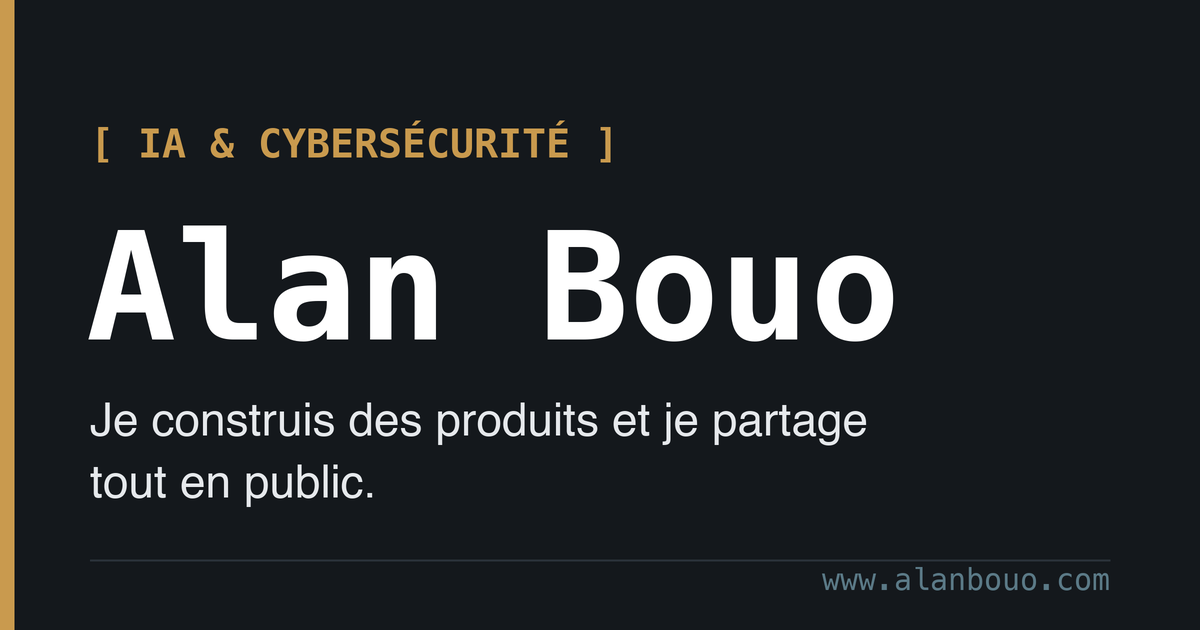
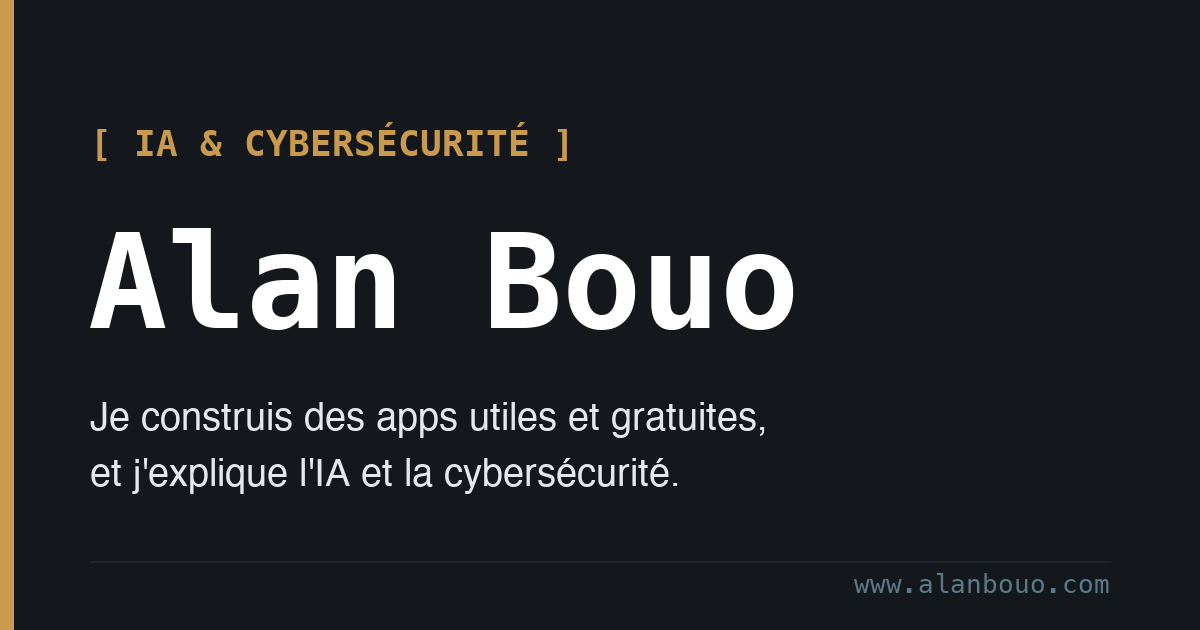
Remplace « expert » par ce que je fais et retire le reste d'A/B « audit »

diff --git a/app/layout.tsx b/app/layout.tsx
@@ -6,17 +6,17 @@ import { SITE_URL, SITE_NAME, DEFAULT_OG_IMAGE } from '@/lib/site'
 
 export const metadata: Metadata = {
   metadataBase: new URL(SITE_URL),
-  title: 'Alan Bouo — Expert IA & cybersécurité qui construit en public',
-  description: "Je construis des produits, j'apprends en avançant et je partage tout en public. Passionné d'IA et de cybersécurité, j'aime rendre ces sujets accessibles, sans jargon.",
-  keywords: ['IA', 'intelligence artificielle', 'cybersécurité', 'build in public', 'vulgarisation', 'indie hacking', 'SaaS', 'Alan Bouo'],
+  title: "Alan Bouo — Je construis des apps et j'explique l'IA et la cybersécurité",
+  description: "Je construis des apps utiles et gratuites, et j'explique l'IA et la cybersécurité en chemin, simplement et sans jargon.",
+  keywords: ['IA', 'intelligence artificielle', 'cybersécurité', 'vulgarisation', 'apps gratuites', 'Alan Bouo'],
   authors: [{ name: 'Alan Bouo' }],
   openGraph: {
-    title: 'Alan Bouo — Expert IA & cybersécurité qui construit en public',
-    description: "Je construis des produits et j'apprends en public. IA & cybersécurité rendues accessibles, sans jargon.",
+    title: "Alan Bouo — Je construis des apps et j'explique l'IA et la cybersécurité",
+    description: "Je construis des apps utiles et gratuites, et j'explique l'IA et la cybersécurité en chemin.",
     siteName: SITE_NAME,
     locale: 'fr_FR',
     type: 'website',
-    images: [{ url: DEFAULT_OG_IMAGE, width: 1200, height: 630, alt: 'Alan Bouo : IA & cybersécurité, construit en public' }],
+    images: [{ url: DEFAULT_OG_IMAGE, width: 1200, height: 630, alt: "Alan Bouo : des apps utiles, l'IA et la cybersécurité expliquées" }],
   },
   twitter: {
     card: 'summary_large_image',
@@ -29,9 +29,6 @@ export default function RootLayout({
 }: {
   children: React.ReactNode
 }) {
-  // A/B Testing variant for CTA buttons
-  const ctaVariant = Math.random() < 0.5 ? 'demo' : 'audit';
-
   return (
     <html lang="fr">
       <head>
@@ -39,14 +36,10 @@ export default function RootLayout({
         <script
           dangerouslySetInnerHTML={{
             __html: `
-              // Globaux pour analytics
-              window.ctaVariant = "${ctaVariant}";
-
               // Matomo Analytics Initialization
               var _paq = window._paq = window._paq || [];
               _paq.push(['trackPageView']);
               _paq.push(['enableLinkTracking']);
-              _paq.push(['setCustomVariable', 3, "CTA_Variant", "${ctaVariant}", "visit"]);
               _paq.push(['setCustomVariable', 1, "Traffic_Source", document.referrer.includes('ilan.com') ? 'Organic' : 'Direct', "visit"]);
 
               // Matomo setup (replace with your actual instance)
@@ -62,7 +55,7 @@ export default function RootLayout({
         />
       </head>
       <body>
-        <SiteFrame ctaVariant={ctaVariant}>
+        <SiteFrame>
           {children}
         </SiteFrame>
       </body>

diff --git a/app/about/page.tsx b/app/about/page.tsx
@@ -4,8 +4,8 @@ import { pageMetadata } from '@/lib/site'
 
 export const metadata = pageMetadata({
   path: '/about',
-  title: 'À propos d\'Alan Bouo — Expert IA & cybersécurité',
-  description: "Alan Bouo, passionné d'IA & de cybersécurité. Je construis des produits et j'explique ce que j'apprends, en rendant ces sujets accessibles. Créateur de CookSmart, TubeChatAI, MemoMind et d'autres projets en cours. Basé à Lyon, France."
+  title: "À propos d'Alan Bouo",
+  description: "Alan Bouo construit des apps utiles et gratuites, et explique l'IA et la cybersécurité en chemin, simplement. Créateur de CookSmart, TubeChatAI, MemoMind et d'autres projets en cours. Basé à Lyon, France."
 })
 
 export default function AboutPage() {
@@ -27,8 +27,8 @@ export default function AboutPage() {
             <h1 style={{ fontSize: 'clamp(2.5rem, 8vw, 4rem)', marginBottom: '1rem', lineHeight: '1.2', fontWeight: 'bold' }}>
               ALAN BOUO
             </h1>
-            <h2 style={{ fontSize: 'clamp(1.3rem, 4vw, 2rem)', marginBottom: '2rem', color: 'inherit', opacity: 0.9, textTransform: 'uppercase', letterSpacing: '3px', fontWeight: '600' }}>
-              Expert IA &amp; Cybersécurité
+            <h2 style={{ fontSize: 'clamp(1.3rem, 4vw, 2rem)', marginBottom: '2rem', color: 'inherit', opacity: 0.9, fontWeight: '600' }}>
+              Je construis des apps utiles et gratuites, et j'explique l'IA et la cybersécurité
             </h2>
             <p style={{ fontSize: '20px', lineHeight: '1.6', marginBottom: '1.5rem', fontWeight: '500' }}>
               J'aime comprendre comment les choses marchent, et fabriquer des choses utiles à
@@ -127,7 +127,7 @@ export default function AboutPage() {
             }} className="profile-image-hover">
               <Image
                 src="/img/alan.png"
-                alt="Alan BOUO — Expert IA & cybersécurité"
+                alt="Portrait d'Alan Bouo"
                 width={320}
                 height={320}
                 style={{ objectFit: 'cover', width: '100%', height: '100%' }}

diff --git a/app/page.tsx b/app/page.tsx
@@ -5,8 +5,8 @@ import { pageMetadata, SITE_URL, SOCIAL_PROFILES } from '@/lib/site'
 
 export const metadata = pageMetadata({
   path: '/',
-  title: 'Alan Bouo — Expert IA & cybersécurité qui construit en public',
-  description: "Je construis des produits, j'apprends en avançant et je partage tout en public. Passionné d'IA et de cybersécurité, j'aime rendre ces sujets accessibles, sans jargon.",
+  title: "Alan Bouo — Je construis des apps et j'explique l'IA et la cybersécurité",
+  description: "Je construis des apps utiles et gratuites, et j'explique l'IA et la cybersécurité en chemin, simplement et sans jargon.",
 })
 
 const jsonLd = {
@@ -18,7 +18,7 @@ const jsonLd = {
       name: 'Alan Bouo',
       url: `${SITE_URL}/`,
       image: `${SITE_URL}/img/alan.png`,
-      description: "Je construis des produits et je partage tout en public. IA et cybersécurité rendues accessibles, sans jargon.",
+      description: "Je construis des apps utiles et gratuites, et j'explique l'IA et la cybersécurité en chemin.",
       knowsAbout: ['Intelligence artificielle', 'Cybersécurité'],
       sameAs: SOCIAL_PROFILES,
     },

diff --git a/app/blog/[slug]/page.tsx b/app/blog/[slug]/page.tsx
@@ -4,7 +4,7 @@ import { notFound } from 'next/navigation'
 import Footer from '@/components/Footer'
 import { Metadata } from 'next'
 import { getPost, getPostSlugs } from '@/lib/posts'
-import { SITE_URL, DEFAULT_OG_IMAGE } from '@/lib/site'
+import { SITE_URL, SITE_NAME, DEFAULT_OG_IMAGE } from '@/lib/site'
 
 interface Props {
   params: {
@@ -41,7 +41,7 @@ export async function generateMetadata({ params }: Props): Promise<Metadata> {
       title: post.title,
       description: post.description,
       url: postUrl,
-      siteName: 'Alan Bouo — Expert IA & cybersécurité',
+      siteName: SITE_NAME,
       locale: 'fr_FR',
       type: 'article',
       publishedTime: post.date,

diff --git a/components/Footer.tsx b/components/Footer.tsx
@@ -81,7 +81,7 @@ export default function Footer() {
           fontFamily: 'var(--font-body)',
           fontSize: '14px'
         }}>
-            <p style={{ color: '#8A9499', fontSize: '13px', lineHeight: '1.5' }}>&copy; 2026 Alan Bouo. Tous droits réservés. <em style={{ color: '#ffffff' }}>Rendre l'IA et la cybersécurité accessibles, un produit à la fois.</em></p>
+            <p style={{ color: '#8A9499', fontSize: '13px', lineHeight: '1.5' }}>&copy; 2026 Alan Bouo. Tous droits réservés. <em style={{ color: '#ffffff' }}>Des apps utiles, et l'IA et la cybersécurité rendues accessibles.</em></p>
         </div>
       </div>
 

diff --git a/lib/site.ts b/lib/site.ts
@@ -5,9 +5,9 @@
 import type { Metadata } from 'next'
 
 export const SITE_URL = 'https://www.alanbouo.com'
-export const SITE_NAME = 'Alan Bouo — Expert IA & cybersécurité'
+export const SITE_NAME = 'Alan Bouo'
 export const DEFAULT_OG_IMAGE = `${SITE_URL}/og-default.png`
-const OG_IMAGE_ALT = 'Alan Bouo : IA & cybersécurité, construit en public'
+const OG_IMAGE_ALT = "Alan Bouo : des apps utiles, l'IA et la cybersécurité expliquées"
 
 export const SOCIAL_PROFILES = [
   'https://www.youtube.com/@alanbouo',

diff --git a/components/SiteFrame.tsx b/components/SiteFrame.tsx
@@ -8,10 +8,8 @@ import Footer from './Footer'
 // SAUF sur l'éditeur Keystatic (/keystatic) qui occupe tout l'écran.
 export default function SiteFrame({
   children,
-  ctaVariant,
 }: {
   children: React.ReactNode
-  ctaVariant: string
 }) {
   const pathname = usePathname()
 
@@ -22,7 +20,7 @@ export default function SiteFrame({
   return (
     <>
       <Navbar />
-      <main data-cta-variant={ctaVariant}>{children}</main>
+      <main>{children}</main>
       <Footer />
     </>
   )

diff --git a/app/rss.xml/route.ts b/app/rss.xml/route.ts
@@ -9,7 +9,7 @@ export async function GET() {
   const rssXml = `<?xml version="1.0" encoding="UTF-8"?>
 <rss version="2.0" xmlns:atom="http://www.w3.org/2005/Atom">
   <channel>
-    <title>Alan Bouo — Expert IA &amp; cybersécurité</title>
+    <title>Alan Bouo</title>
     <description>Vulgarisation de l'IA et de la cybersécurité, et coulisses de ce que je construis, documentées en public.</description>
     <link>${baseUrl}</link>
     <language>fr-FR</language>
